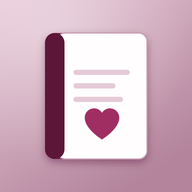
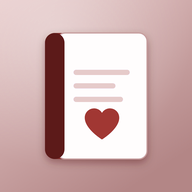
Theme rouge chaud: violet prune -> rouge brique + fond creme, icones recolorees, cache v4

Changed region(s): [[0.2188, 0.1562, 0.3438, 0.8438], [0.4375, 0.5625, 0.625, 0.7188]]

diff --git a/index.html b/index.html
@@ -3,7 +3,7 @@
 <head>
 <meta charset="utf-8">
 <meta name="viewport" content="width=device-width, initial-scale=1, viewport-fit=cover">
-<meta name="theme-color" content="#7a1f4b">
+<meta name="theme-color" content="#b5342b">
 <meta name="robots" content="noindex, nofollow">
 <link rel="manifest" href="manifest.webmanifest">
 <link rel="apple-touch-icon" href="icon-192.png">
@@ -14,9 +14,9 @@
 <title>Mon Carnet</title>
 <style>
   :root{
-    --plum:#7a1f4b; --plum-d:#5c1637; --plum-l:#a83a6b;
-    --bg:#faf7f8; --card:#ffffff; --line:#ecdfe5;
-    --txt:#241a1f; --mut:#8b7d84;
+    --plum:#b5342b; --plum-d:#8a1f18; --plum-l:#e0703c;
+    --bg:#fdf8f2; --card:#ffffff; --line:#f2e3d6;
+    --txt:#2b201a; --mut:#7d685b;
     --g:#2f7d3e; --o:#c47f0a; --r:#b8243c;
     --ok:#2f7d3e;
   }
@@ -58,7 +58,7 @@
     padding:6px 2px;cursor:pointer;display:flex;flex-direction:column;align-items:center;gap:2px;border-radius:10px;
   }
   nav.tabs button .ic{font-size:1.22rem;line-height:1}
-  nav.tabs button.on{color:var(--plum);font-weight:700;background:#f7eef2}
+  nav.tabs button.on{color:var(--plum);font-weight:700;background:#fbeee6}
   main{padding:12px 12px 0;max-width:820px;margin:0 auto}
   .view{display:none}
   .view.on{display:block}
@@ -71,7 +71,7 @@
   .progtop{display:flex;justify-content:space-between;align-items:baseline;margin-bottom:8px}
   .progtop b{font-size:.95rem}
   .progtop span{font-size:.85rem;color:var(--mut)}
-  .bar{height:10px;background:#f0e6eb;border-radius:99px;overflow:hidden}
+  .bar{height:10px;background:#f4e6db;border-radius:99px;overflow:hidden}
   .bar>i{display:block;height:100%;width:0;background:linear-gradient(90deg,var(--plum-l),var(--plum));border-radius:99px;transition:width .35s ease}
   .legend{display:flex;gap:12px;margin-top:9px;font-size:.74rem;color:var(--mut);flex-wrap:wrap}
   .legend span{display:flex;align-items:center;gap:5px}
@@ -91,7 +91,7 @@
     display:flex;align-items:center;gap:10px;padding:13px;cursor:pointer;background:none;border:0;
     width:100%;font-family:inherit;text-align:left;font-size:.92rem;font-weight:700;color:var(--plum);
   }
-  .cathead .cnt{margin-left:auto;font-size:.76rem;font-weight:600;color:var(--mut);background:#f6eef2;padding:3px 8px;border-radius:99px}
+  .cathead .cnt{margin-left:auto;font-size:.76rem;font-weight:600;color:var(--mut);background:#fbeee6;padding:3px 8px;border-radius:99px}
   .cathead .arw{color:var(--mut);font-size:.8rem;transition:transform .2s}
   .cat.open .arw{transform:rotate(90deg)}
   .catbody{display:none;border-top:1px solid var(--line);padding:6px 10px 10px}
@@ -100,7 +100,7 @@
   .q{display:flex;gap:10px;padding:10px 2px;border-bottom:1px solid #f6f0f3;align-items:flex-start}
   .q:last-child{border-bottom:0}
   .chk{
-    flex:0 0 26px;height:26px;border-radius:8px;border:2px solid #cbb8c2;background:#fff;
+    flex:0 0 26px;height:26px;border-radius:8px;border:2px solid #dcc3b3;background:#fff;
     cursor:pointer;font-size:.85rem;color:transparent;display:flex;align-items:center;justify-content:center;
     margin-top:1px;padding:0;font-family:inherit;
   }
@@ -111,26 +111,26 @@
   .q.done .qtext{color:#6f6f6f}
   .qacts{display:flex;gap:8px;margin-top:5px;align-items:center;flex-wrap:wrap}
   .mini{
-    background:#f7eff3;border:0;border-radius:8px;padding:4px 9px;font-size:.74rem;
+    background:#fbeee6;border:0;border-radius:8px;padding:4px 9px;font-size:.74rem;
     font-family:inherit;color:var(--plum);cursor:pointer;font-weight:600;
   }
-  .mini.star{background:transparent;font-size:1rem;padding:0 3px;color:#cbb8c2}
+  .mini.star{background:transparent;font-size:1rem;padding:0 3px;color:#dcc3b3}
   .mini.star.on{color:#e0a800}
   .q textarea{
     width:100%;margin-top:7px;border:1px solid var(--line);border-radius:9px;padding:9px;
     font-family:inherit;font-size:.87rem;line-height:1.4;resize:vertical;min-height:52px;
-    background:#fdfbfc;color:var(--txt);
+    background:#fdf8f2;color:var(--txt);
   }
-  .q textarea:focus{outline:2px solid #e3c8d5;background:#fff}
+  .q textarea:focus{outline:2px solid #f2c9b2;background:#fff}
   .nothide{display:none}
-  .warnq{background:#fdf1f4;border:1px solid #ecc9d3;border-left:4px solid #b8243c;border-radius:9px;padding:11px 13px;font-size:.83rem;color:#6d2233;margin:8px 0 10px;line-height:1.42}
+  .warnq{background:#fdf0e9;border:1px solid #f0cdba;border-left:4px solid #b8243c;border-radius:9px;padding:11px 13px;font-size:.83rem;color:#7a2c1c;margin:8px 0 10px;line-height:1.42}
   /* ---------- RECAP ---------- */
   .rcat{margin-bottom:14px}
-  .rcat h4{margin:0 0 7px;font-size:.9rem;color:var(--plum);border-bottom:2px solid #f2e6ec;padding-bottom:5px}
+  .rcat h4{margin:0 0 7px;font-size:.9rem;color:var(--plum);border-bottom:2px solid #f4e2d6;padding-bottom:5px}
   .ritem{background:#fff;border:1px solid var(--line);border-radius:11px;padding:10px 12px;margin-bottom:8px}
   .rq{font-size:.82rem;color:var(--mut);margin-bottom:4px}
   .ra{font-size:.92rem;white-space:pre-wrap}
-  .rempty{background:#fdfbfc;border-left:4px solid var(--plum);border-radius:9px;padding:11px 13px;font-size:.9rem;margin-bottom:12px}
+  .rempty{background:#fdf8f2;border-left:4px solid var(--plum);border-radius:9px;padding:11px 13px;font-size:.9rem;margin-bottom:12px}
   .rempty b{display:block;color:var(--plum);font-size:.8rem;margin-bottom:3px}
   .freefield{margin-bottom:12px}
   .freefield label{display:block;font-size:.82rem;font-weight:600;color:var(--plum);margin-bottom:5px}
@@ -138,7 +138,7 @@
     width:100%;border:1px solid var(--line);border-radius:10px;padding:10px;min-height:56px;
     font-family:inherit;font-size:.9rem;resize:vertical;background:#fff;color:var(--txt);
   }
-  .freefield textarea:focus{outline:2px solid #e3c8d5}
+  .freefield textarea:focus{outline:2px solid #f2c9b2}
   /* ---------- BOUTONS ---------- */
   .btn{
     display:block;width:100%;background:var(--plum);color:#fff;border:0;border-radius:12px;
@@ -146,12 +146,12 @@
   }
   .btn:active{background:var(--plum-d)}
   .btn.ghost{background:#fff;color:var(--plum);border:1.5px solid var(--plum)}
-  .btn.danger{background:#fff;color:#b8243c;border:1.5px solid #e3b8c0}
+  .btn.danger{background:#fff;color:#b8243c;border:1.5px solid #ecc2b2}
   .btnrow{display:flex;gap:9px}
   .btnrow .btn{margin-bottom:9px}
   /* ---------- MODALE ---------- */
   .modal{
-    position:fixed;inset:0;z-index:100;background:rgba(40,10,25,.55);
+    position:fixed;inset:0;z-index:100;background:rgba(45,18,8,.55);
     display:none;align-items:flex-end;justify-content:center;
   }
   .modal.on{display:flex}
@@ -164,14 +164,14 @@
     width:100%;border:1.5px solid var(--line);border-radius:11px;padding:13px;
     font-family:inherit;font-size:1rem;margin-bottom:12px;
   }
-  .sheet input[type=text]:focus{outline:2px solid #e3c8d5}
+  .sheet input[type=text]:focus{outline:2px solid #f2c9b2}
   .plist{margin-bottom:6px}
-  .pitem{display:flex;align-items:center;gap:9px;padding:11px 0;border-bottom:1px solid #f4edf0}
+  .pitem{display:flex;align-items:center;gap:9px;padding:11px 0;border-bottom:1px solid #f6ebe1}
   .pitem .nm{flex:1;font-size:.93rem;font-weight:600;overflow:hidden;text-overflow:ellipsis;white-space:nowrap}
   .pitem .nm small{display:block;font-weight:400;font-size:.72rem;color:var(--mut)}
   .pitem.act .nm{color:var(--plum)}
-  .pmini{background:#f7eff3;border:0;border-radius:8px;padding:6px 9px;font-size:.74rem;font-family:inherit;color:var(--plum);cursor:pointer;font-weight:600}
-  .pmini.del{color:#b8243c;background:#fdf1f3}
+  .pmini{background:#fbeee6;border:0;border-radius:8px;padding:6px 9px;font-size:.74rem;font-family:inherit;color:var(--plum);cursor:pointer;font-weight:600}
+  .pmini.del{color:#b8243c;background:#fdf0e9}
   /* ---------- VIDE ---------- */
   .empty{padding:44px 18px;text-align:center}
   .empty .big{font-size:3rem;margin-bottom:10px}
@@ -180,7 +180,7 @@
   /* ---------- TOAST ---------- */
   #toast{
     position:fixed;bottom:calc(96px + env(safe-area-inset-bottom));left:50%;transform:translateX(-50%) translateY(20px);
-    background:#241a1f;color:#fff;padding:11px 20px;border-radius:99px;font-size:.85rem;
+    background:#2b201a;color:#fff;padding:11px 20px;border-radius:99px;font-size:.85rem;
     opacity:0;transition:.25s;pointer-events:none;z-index:200;max-width:90vw;text-align:center;
   }
   #toast.on{opacity:1;transform:translateX(-50%) translateY(0)}
@@ -192,15 +192,15 @@
     body{padding:0;background:#fff;font-size:11pt}
     body>*{display:none!important}
     #printArea{display:block!important}
-    #printArea h1{font-size:18pt;color:#7a1f4b;margin:0 0 2mm}
-    #printArea .pmeta{font-size:9pt;color:#666;margin-bottom:5mm;border-bottom:2px solid #7a1f4b;padding-bottom:2mm}
+    #printArea h1{font-size:18pt;color:#b5342b;margin:0 0 2mm}
+    #printArea .pmeta{font-size:9pt;color:#666;margin-bottom:5mm;border-bottom:2px solid #b5342b;padding-bottom:2mm}
     #printArea .rcat{page-break-inside:avoid;margin-bottom:5mm}
-    #printArea .rcat h4{color:#7a1f4b;font-size:12pt;margin:0 0 2mm;border-bottom:1px solid #ddd;padding-bottom:1mm}
+    #printArea .rcat h4{color:#b5342b;font-size:12pt;margin:0 0 2mm;border-bottom:1px solid #ddd;padding-bottom:1mm}
     #printArea .ritem{border:1px solid #e5e5e5;border-radius:4px;padding:2.5mm 3mm;margin-bottom:2mm;page-break-inside:avoid}
     #printArea .rq{font-size:8.5pt;color:#777;margin-bottom:1mm}
     #printArea .ra{font-size:10.5pt;white-space:pre-wrap}
-    #printArea .rempty{border-left:3px solid #7a1f4b;background:#faf5f7;padding:2.5mm 3mm;margin-bottom:3mm;page-break-inside:avoid}
-    #printArea .rempty b{display:block;font-size:8.5pt;color:#7a1f4b;margin-bottom:1mm}
+    #printArea .rempty{border-left:3px solid #b5342b;background:#fdf7f1;padding:2.5mm 3mm;margin-bottom:3mm;page-break-inside:avoid}
+    #printArea .rempty b{display:block;font-size:8.5pt;color:#b5342b;margin-bottom:1mm}
   }
 </style>
 </head>

diff --git a/sw.js b/sw.js
@@ -3,7 +3,7 @@
    Strategie : on met en cache le minimum vital a l'installation,
    puis on sert le cache d'abord (et on rafraichit en arriere-plan). */
 
-const CACHE = "mon-carnet-v3";
+const CACHE = "mon-carnet-v4";
 const FILES = [
   "./",
   "./index.html",
